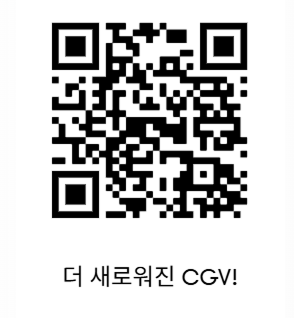
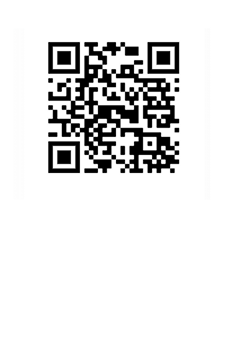
appdown_modal추가

diff --git a/css/main.css b/css/main.css
@@ -1081,34 +1081,55 @@ body {
   opacity: 0;
 
 }
-.appdown_modal{
-  position: absolute;
+/* 모달 */
+#appdown_modal {
+  display: none;
+  position: fixed;
   top: 0;
   left: 0;
+  width: 100%;
+  height: 100%;
+  background: rgba(0, 0, 0, 0.6);
   z-index: 9999;
-  width: 600px;
-  height: 760px;
-  background-color: rgba(0, 0, 0, 0.8);
-  visibility: hidden;
+
+}
+#appdown_modal img{
   display: flex;
   justify-content: center;
-  align-items: center;
-  display:none;
+  padding: 100px 94px;
 }
-.appdown_box img{
-  width: 300px;
-  height: 320px;
+#appdown_modal>div {
+  position: relative;
+  width:400px;
+  height: 600px;
+  margin: 5% auto;
+  background: linear-gradient(to bottom, rgba(201, 0, 64, 1), rgba(6, 0, 76, 1)70%);
+  padding: 1px;
+  overflow: hidden;
+  border-radius: 10px;
 }
-.appdown_modal_close {
-  background: none;
-  border: none;
-  width: 48px;
-  height: 48px;
+
+#appdown_closeModal {
   position: absolute;
-  top: 500px;
-  right: 500px;
-  z-index: 9999;
+  top: 10px;
+  right: 20px;
+  width: 40px;
+  height: 30px;
+  background: rgba(0, 0, 0, 0.5);
+  border: 1px solid var(--empty_btn_border);
+  border-radius: 8px;
+  color: #fff;
+  font-size: 15px;
 }
+
+#appdown_closeModa:hover {
+  background: rgba(0, 0, 0, .7);
+}
+
+#appdown_closeModa:active {
+  background: rgba(0, 0, 0, 0.9) !important;
+}
+
 
 @keyframes Float {
 

diff --git a/js/main.js b/js/main.js
@@ -595,3 +595,14 @@ popupCloseBtn.on('click', function () {
 
 
 /* 앱다운 모달 */
+//모달 띄우기
+$('.appdown a').on('click', function (e) {
+  e.preventDefault();
+  $('#appdown_modal').fadeIn(500);
+})
+$('#appdown_closeModal').on('click', function () {
+  $('#appdown_modal').hide();
+})
+$('#appdown_modal').on('click', function () {
+  $('#appdown_modal').hide();
+})

diff --git a/view/layout.view.php b/view/layout.view.php
@@ -204,18 +204,12 @@ $username = $isLoggedIn ? $_SESSION['username'] : null;
       </svg>
     </button>
   </div>
-  
-  <!-- 앱다운 modal -->
-  <div class="appdown_modal">
-    <div class="appdown_box">
-       <img src="./images/appdown_qr.png" alt="appdownQR">
+        <!-- 앱다운 modal -->
+  <div id="appdown_modal">
+    <div>
+      <button type="button" id="appdown_closeModal">닫기</button>
+      <img src="./images/appdown_qr.png" alt="">
     </div>
-    <!-- 닫기버튼 모양 -->
-    <button class="modal_close">
-      <svg xmlns="http://www.w3.org/2000/svg" height="24px" viewBox="0 -960 960 960" width="24px" fill="#FFFFFF">
-        <path d="m256-200-56-56 224-224-224-224 56-56 224 224 224-224 56 56-224 224 224 224-56 56-224-224-224 224Z" />
-      </svg>
-    </button>
   </div>
 
 

diff --git a/view/index.view.php b/view/index.view.php
@@ -314,6 +314,7 @@
           </div>
         </div>
       </div>
+
     </div>
 
       
